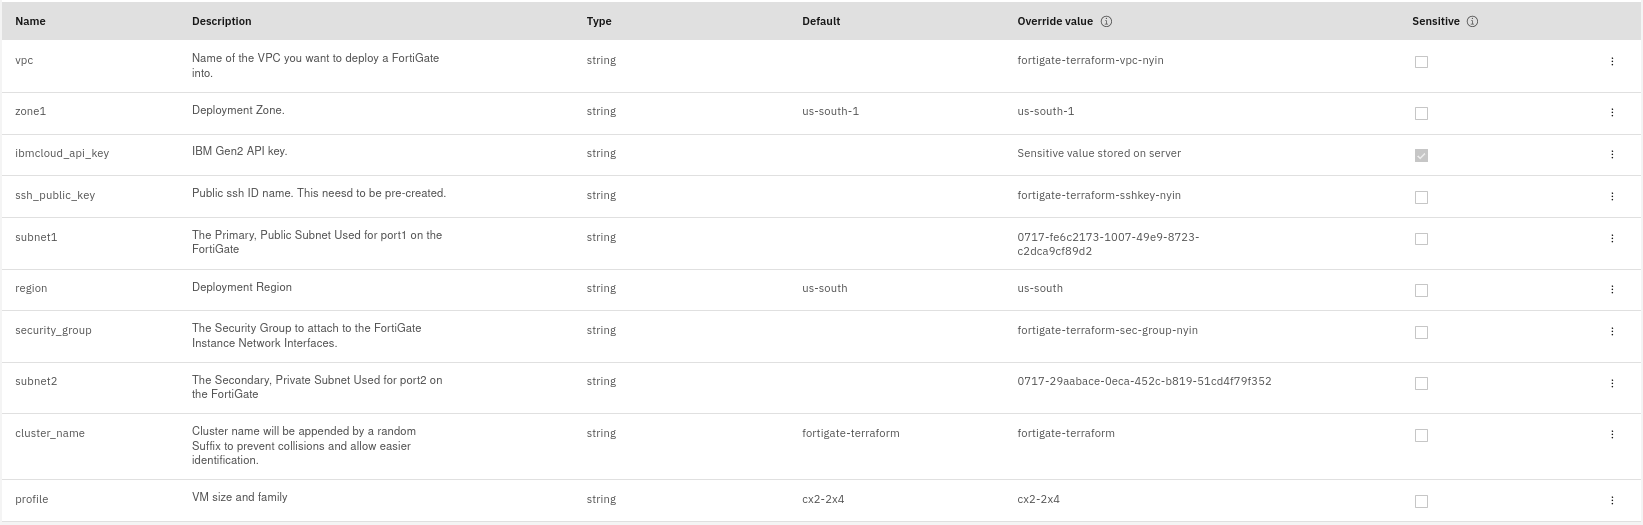
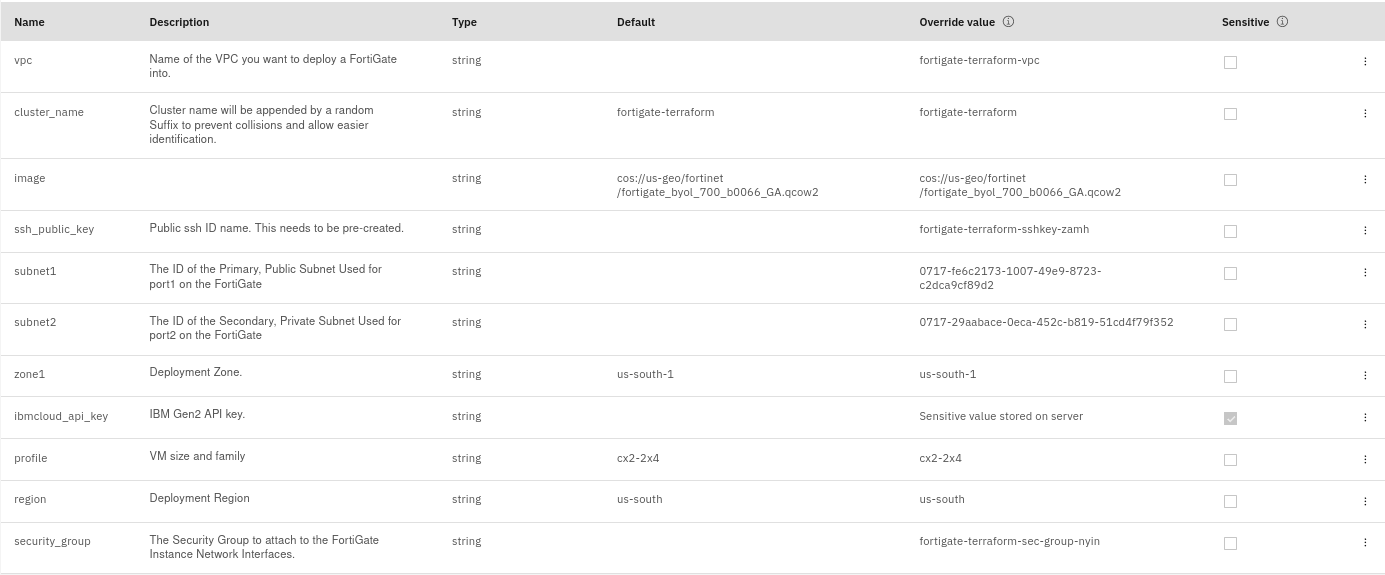
fixing screenshot

diff --git a/README.md b/README.md
@@ -22,8 +22,9 @@ Terraform deploys the following components:
 
 1. Fill in the required VPC, Subnet and ssh key values as shown below:
 
+    ![IBM FortiGate Deploy](https://raw.githubusercontent.com/fortinet/ibm-fortigate-terraform-deploy/main/imgs/step_2_catalog_deploy.png)
+
 > **Note** For Subnets, put the UUID of the subnet. Not the name
-> ![IBM FortiGate Deploy](https://raw.githubusercontent.com/fortinet/ibm-fortigate-terraform-deploy/main/imgs/step_6_a.png)
 
 2. Apply the Plan.
 
